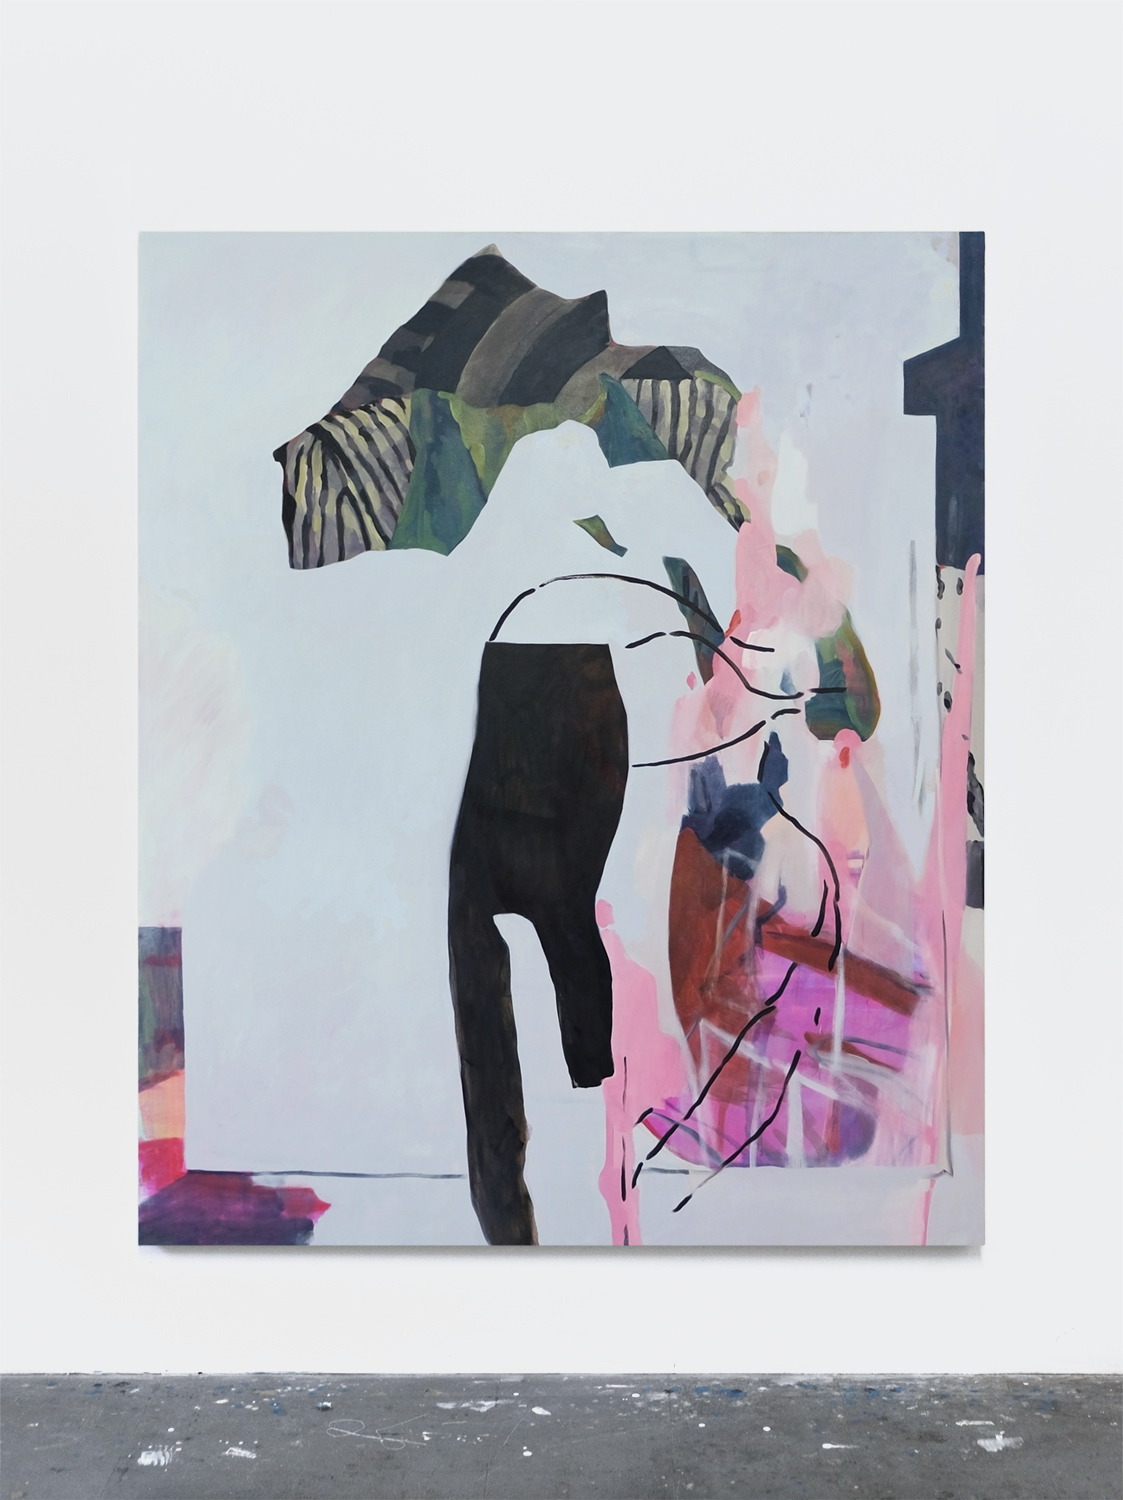
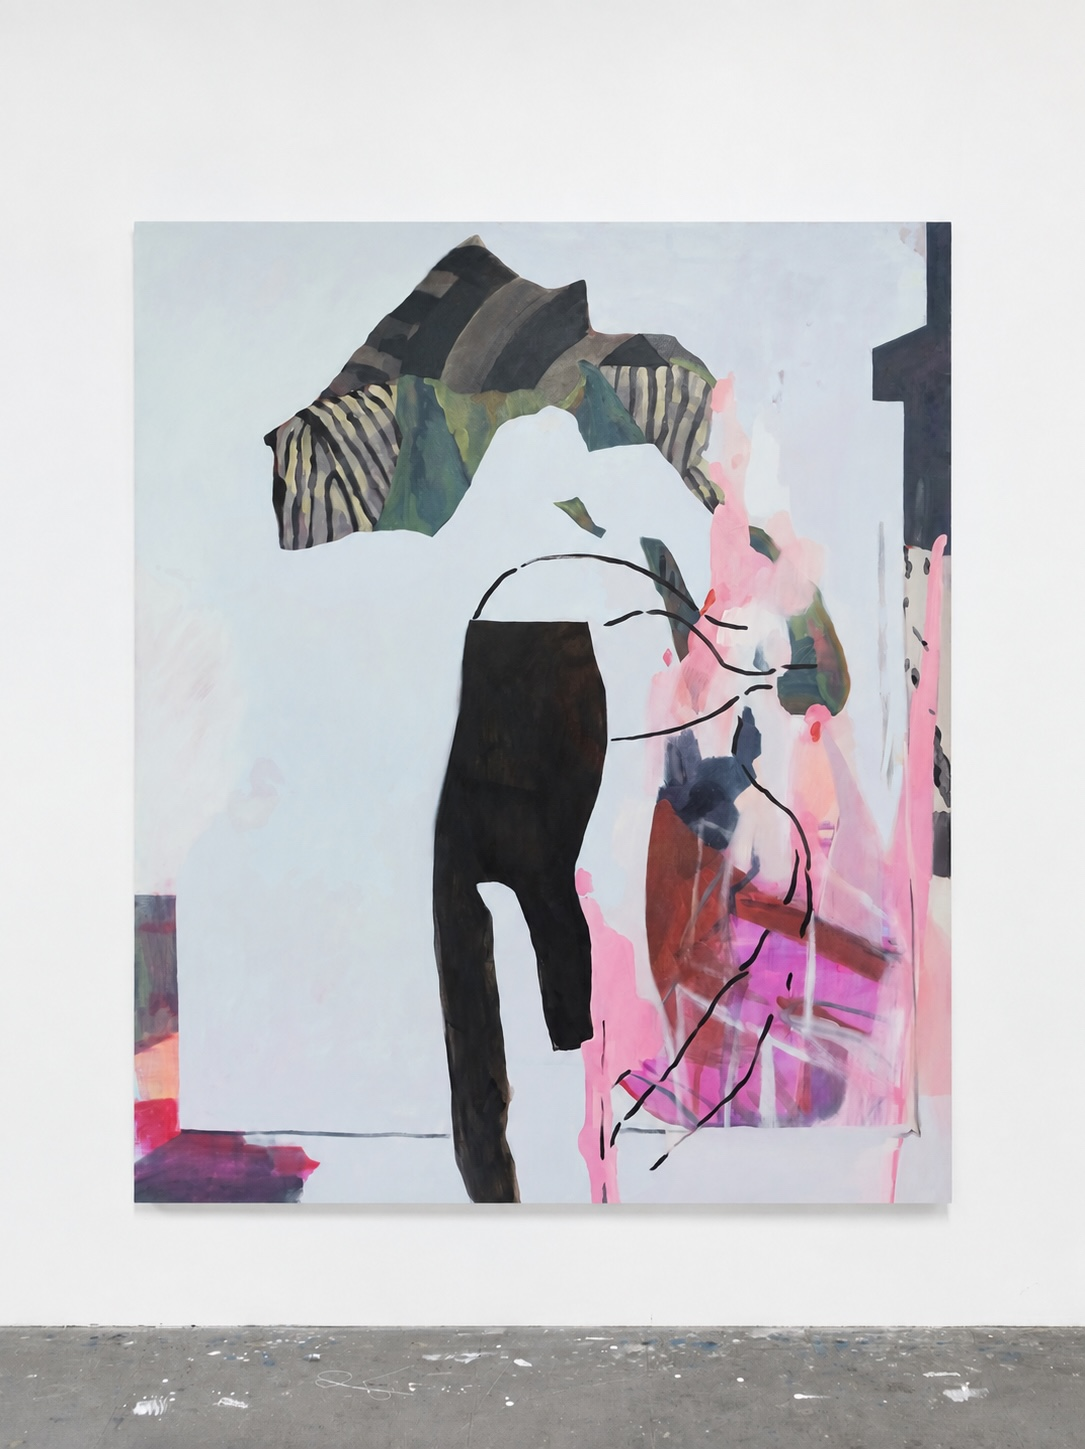
Use JPG assets for active gallery images

diff --git a/index.html b/index.html
@@ -30,7 +30,7 @@
       <div class="caption"><a class="homepage-caption-link" href="shibumi.html"><em>Soft Power</em>, 2026</a></div>
       <div class="homepage-exhibition"><img loading="lazy" decoding="async" class="slide homepage-image" alt="Touchy" src="images/homepage/web_touchy1.jpg"><a class="homepage-exhibition-link" href="touchy.html" aria-label="View Touchy exhibition">*</a></div>
       <div class="caption"><a class="homepage-caption-link" href="touchy.html"><em>Touchy</em>, 2025</a></div>
-      <div class="homepage-static homepage-exhibition-portrait"><img loading="lazy" decoding="async" class="slide homepage-image" alt="Hemming" src="images/homepage/web_hemming1.png"></div>
+      <div class="homepage-static homepage-exhibition-portrait"><img loading="lazy" decoding="async" class="slide homepage-image" alt="Hemming" src="images/homepage/web_hemming1.jpg"></div>
       <div class="caption slidevert"><em>Hemming</em>, 2025, oil on canvas, 72” x 60”</div>
       <div class="homepage-static homepage-pair">
         <img loading="lazy" decoding="async" class="slide homepage-image" alt="Flip" src="images/homepage/web_flip.jpg">
@@ -72,15 +72,15 @@
       <div class="caption slidevert"><em>Violante</em>, 2020, oil on canvas, brass eyelets, approximately 51”x20”</div>
       <div class="homepage-exhibition"><img loading="lazy" decoding="async" class="slide homepage-image" alt="Mother Tongue" src="images/homepage/web_dynamo1-balanced.jpg"><a class="homepage-exhibition-link" href="dynamo.html" aria-label="View Mother Tongue exhibition">*</a></div>
       <div class="caption"><a class="homepage-caption-link" href="dynamo.html"><em>Mother Tongue</em>, 2018</a></div>
-      <div class="homepage-exhibition"><img loading="lazy" decoding="async" class="slide homepage-image" alt="near channels" src="images/homepage/web_supportsupport2-balanced.png"><a class="homepage-exhibition-link" href="support.html" aria-label="View near channels exhibition">*</a></div>
+      <div class="homepage-exhibition"><img loading="lazy" decoding="async" class="slide homepage-image" alt="near channels" src="images/homepage/web_supportsupport2-balanced.jpg"><a class="homepage-exhibition-link" href="support.html" aria-label="View near channels exhibition">*</a></div>
       <div class="caption"><a class="homepage-caption-link" href="support.html"><em>near channels</em>, 2018</a></div>
       <div class="homepage-exhibition"><img loading="lazy" decoding="async" class="slide homepage-image" alt="Dear Home" src="images/homepage/web_glogauair1-balanced.jpg"><a class="homepage-exhibition-link" href="glogauair.html" aria-label="View Dear Home exhibition">*</a></div>
       <div class="caption"><a class="homepage-caption-link" href="glogauair.html"><em>Dear Home</em>, 2017</a></div>
-      <div class="homepage-exhibition"><img loading="lazy" decoding="async" class="slide homepage-image" alt="A Terrible Signal" src="images/homepage/web_access1-enhanced-balanced.png"><a class="homepage-exhibition-link" href="access.html" aria-label="View A Terrible Signal exhibition">*</a></div>
+      <div class="homepage-exhibition"><img loading="lazy" decoding="async" class="slide homepage-image" alt="A Terrible Signal" src="images/homepage/web_access1-enhanced-balanced.jpg"><a class="homepage-exhibition-link" href="access.html" aria-label="View A Terrible Signal exhibition">*</a></div>
       <div class="caption"><a class="homepage-caption-link" href="access.html"><em>A Terrible Signal</em>, 2017</a></div>
       <div class="homepage-exhibition"><img loading="lazy" decoding="async" class="slide homepage-image" alt="A Beast Salient" src="images/homepage/web_franc1-balanced.jpg"><a class="homepage-exhibition-link" href="franc.html" aria-label="View A Beast Salient exhibition">*</a></div>
       <div class="caption"><a class="homepage-caption-link" href="franc.html"><em>A Beast Salient</em>, 2017</a></div>
-      <div class="homepage-exhibition"><img loading="lazy" decoding="async" class="slide homepage-image" alt="Fresh Paint New Construction" src="images/homepage/web_artmur-detailed-cropped-balanced.png"><a class="homepage-exhibition-link" href="artmur.html" aria-label="View Fresh Paint New Construction exhibition">*</a></div>
+      <div class="homepage-exhibition"><img loading="lazy" decoding="async" class="slide homepage-image" alt="Fresh Paint New Construction" src="images/homepage/web_artmur-detailed-cropped-balanced.jpg"><a class="homepage-exhibition-link" href="artmur.html" aria-label="View Fresh Paint New Construction exhibition">*</a></div>
       <div class="caption"><a class="homepage-caption-link" href="artmur.html"><em>Fresh Paint New Construction</em>, 2016</a></div>
       <div class="homepage-exhibition"><img loading="lazy" decoding="async" class="slide homepage-image" alt="Still Here" src="images/homepage/web_stillhere1-balanced.jpg"><a class="homepage-exhibition-link" href="stillhere.html" aria-label="View Still Here exhibition">*</a></div>
       <div class="caption"><a class="homepage-caption-link" href="stillhere.html"><em>Still Here</em>, 2016</a></div>

diff --git a/aceart.html b/aceart.html
@@ -56,7 +56,7 @@
         <figcaption><em>Seated Figure</em>, 2025, 4K digital video, loop</figcaption>
       </figure>
       <figure>
-        <img loading="lazy" decoding="async" class="slidevert" alt="Ace Art video still" src="images/exhibitions/aceart/web_yellowcurtain1.png">
+        <img loading="lazy" decoding="async" class="slidevert" alt="Ace Art video still" src="images/exhibitions/aceart/web_yellowcurtain1.jpg">
         <figcaption><em>Yellow Curtain</em>, 2025, 4K digital video, loop</figcaption>
       </figure>
       <figure>
